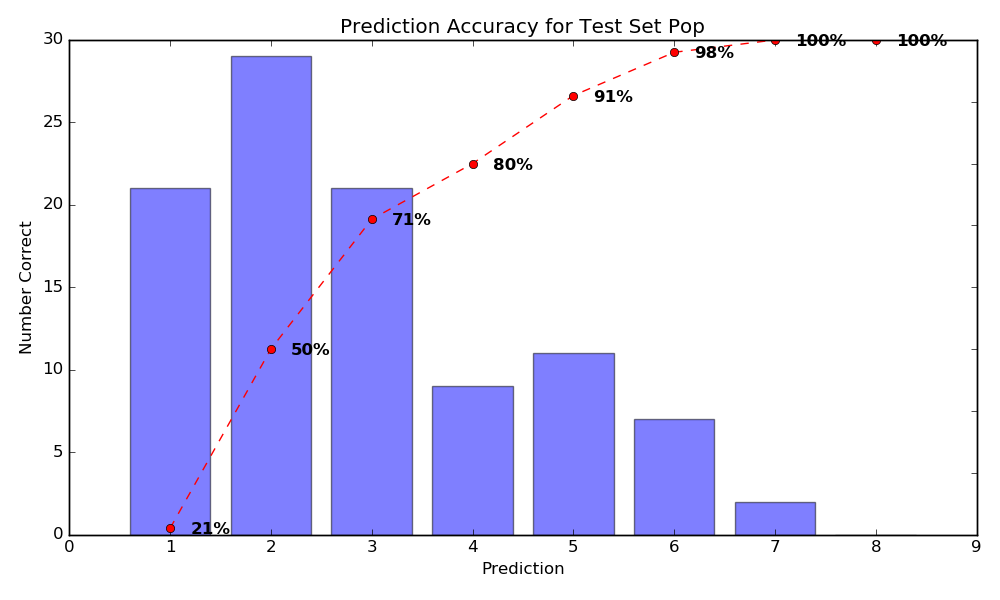
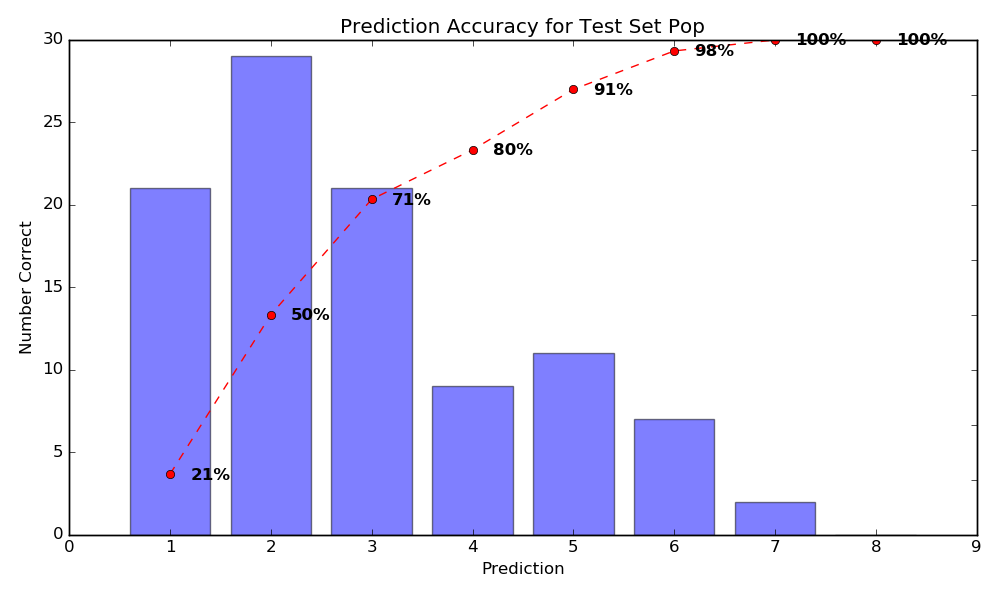
final changes

diff --git a/src/helper_funcs.py b/src/helper_funcs.py
@@ -181,6 +181,7 @@ def pareto_plot(df, title, genre=None, filename=None):
     ax.bar(x, y1, color='blue', alpha=0.5)
     ax2 = ax.twinx()
     ax2.plot(x, y2, color='red', marker='o', linestyle='--')
+    ax2.set_ylim(10,100)
     ax2.set_yticklabels([])
     for i in range(8):
         ax2.annotate(f[i], (x[i]+0.2, y2[i]-0.01), fontweight='heavy')
